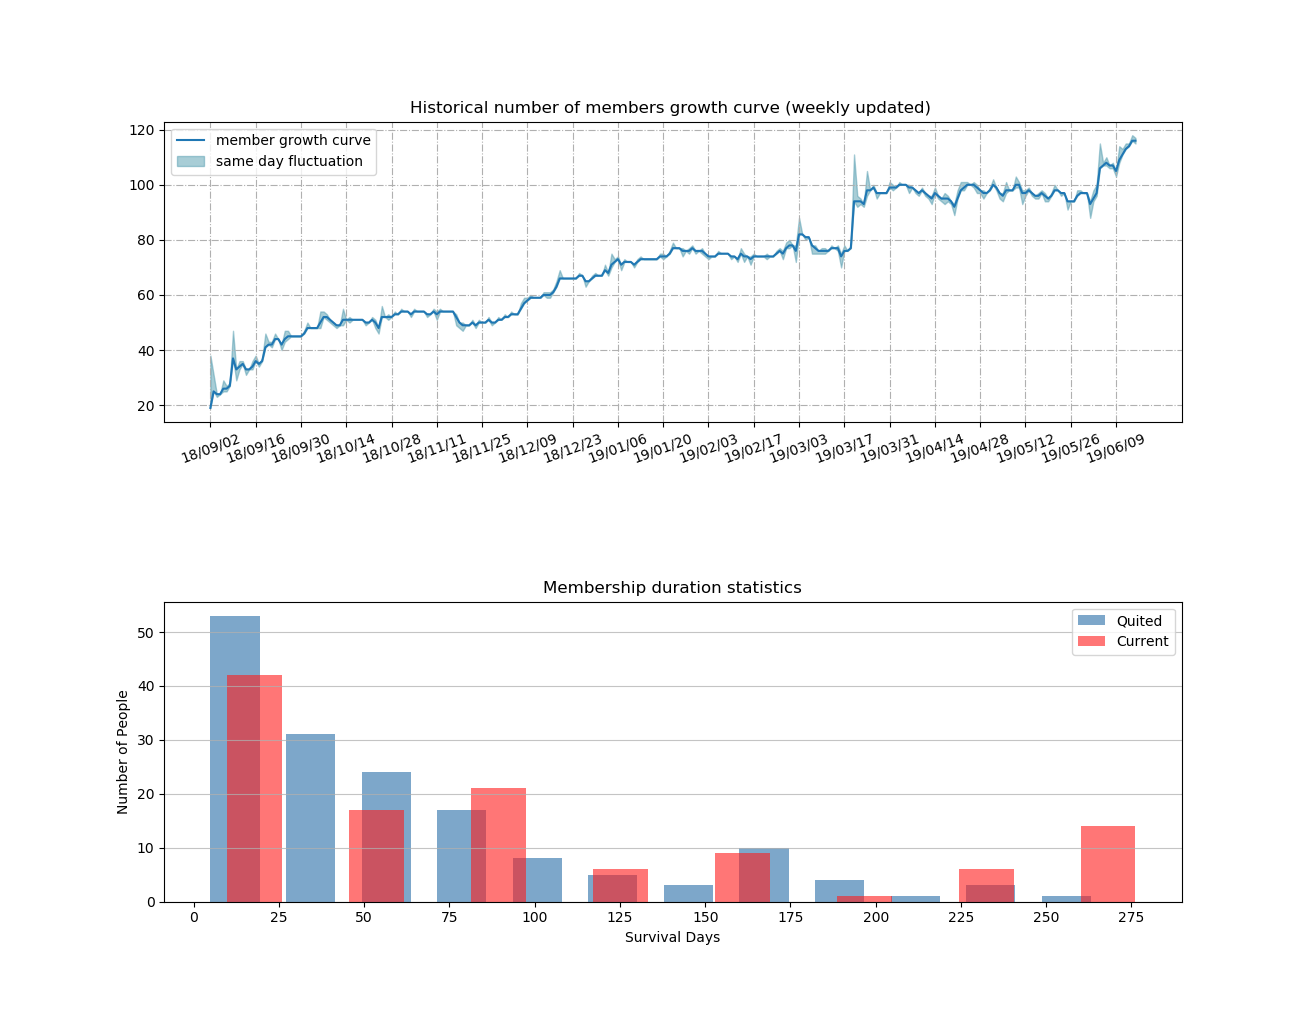
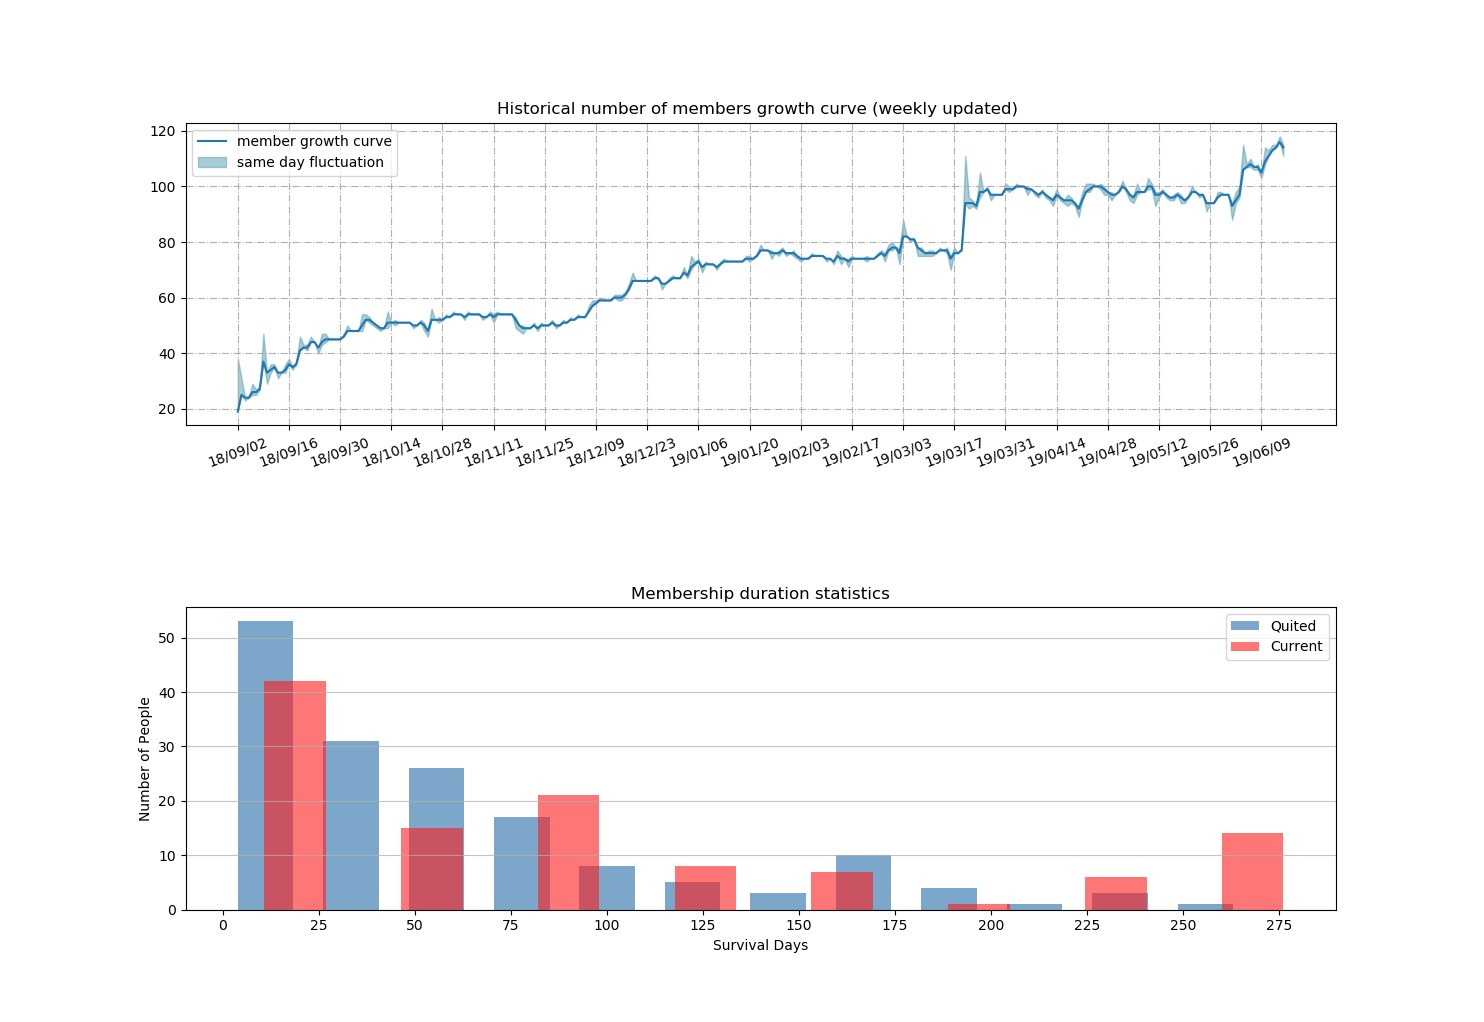
update curve

diff --git a/getRank/RecordData.py b/getRank/RecordData.py
@@ -8,7 +8,7 @@ parser = argparse.ArgumentParser()
 parser.add_argument("contest", help="contest id")
 kwargs = parser.parse_args()
 contest = int(kwargs.contest)
-pageNum = 200
+pageNum = 160
 
 results = fetchRanking(contest,pageNum)
 
